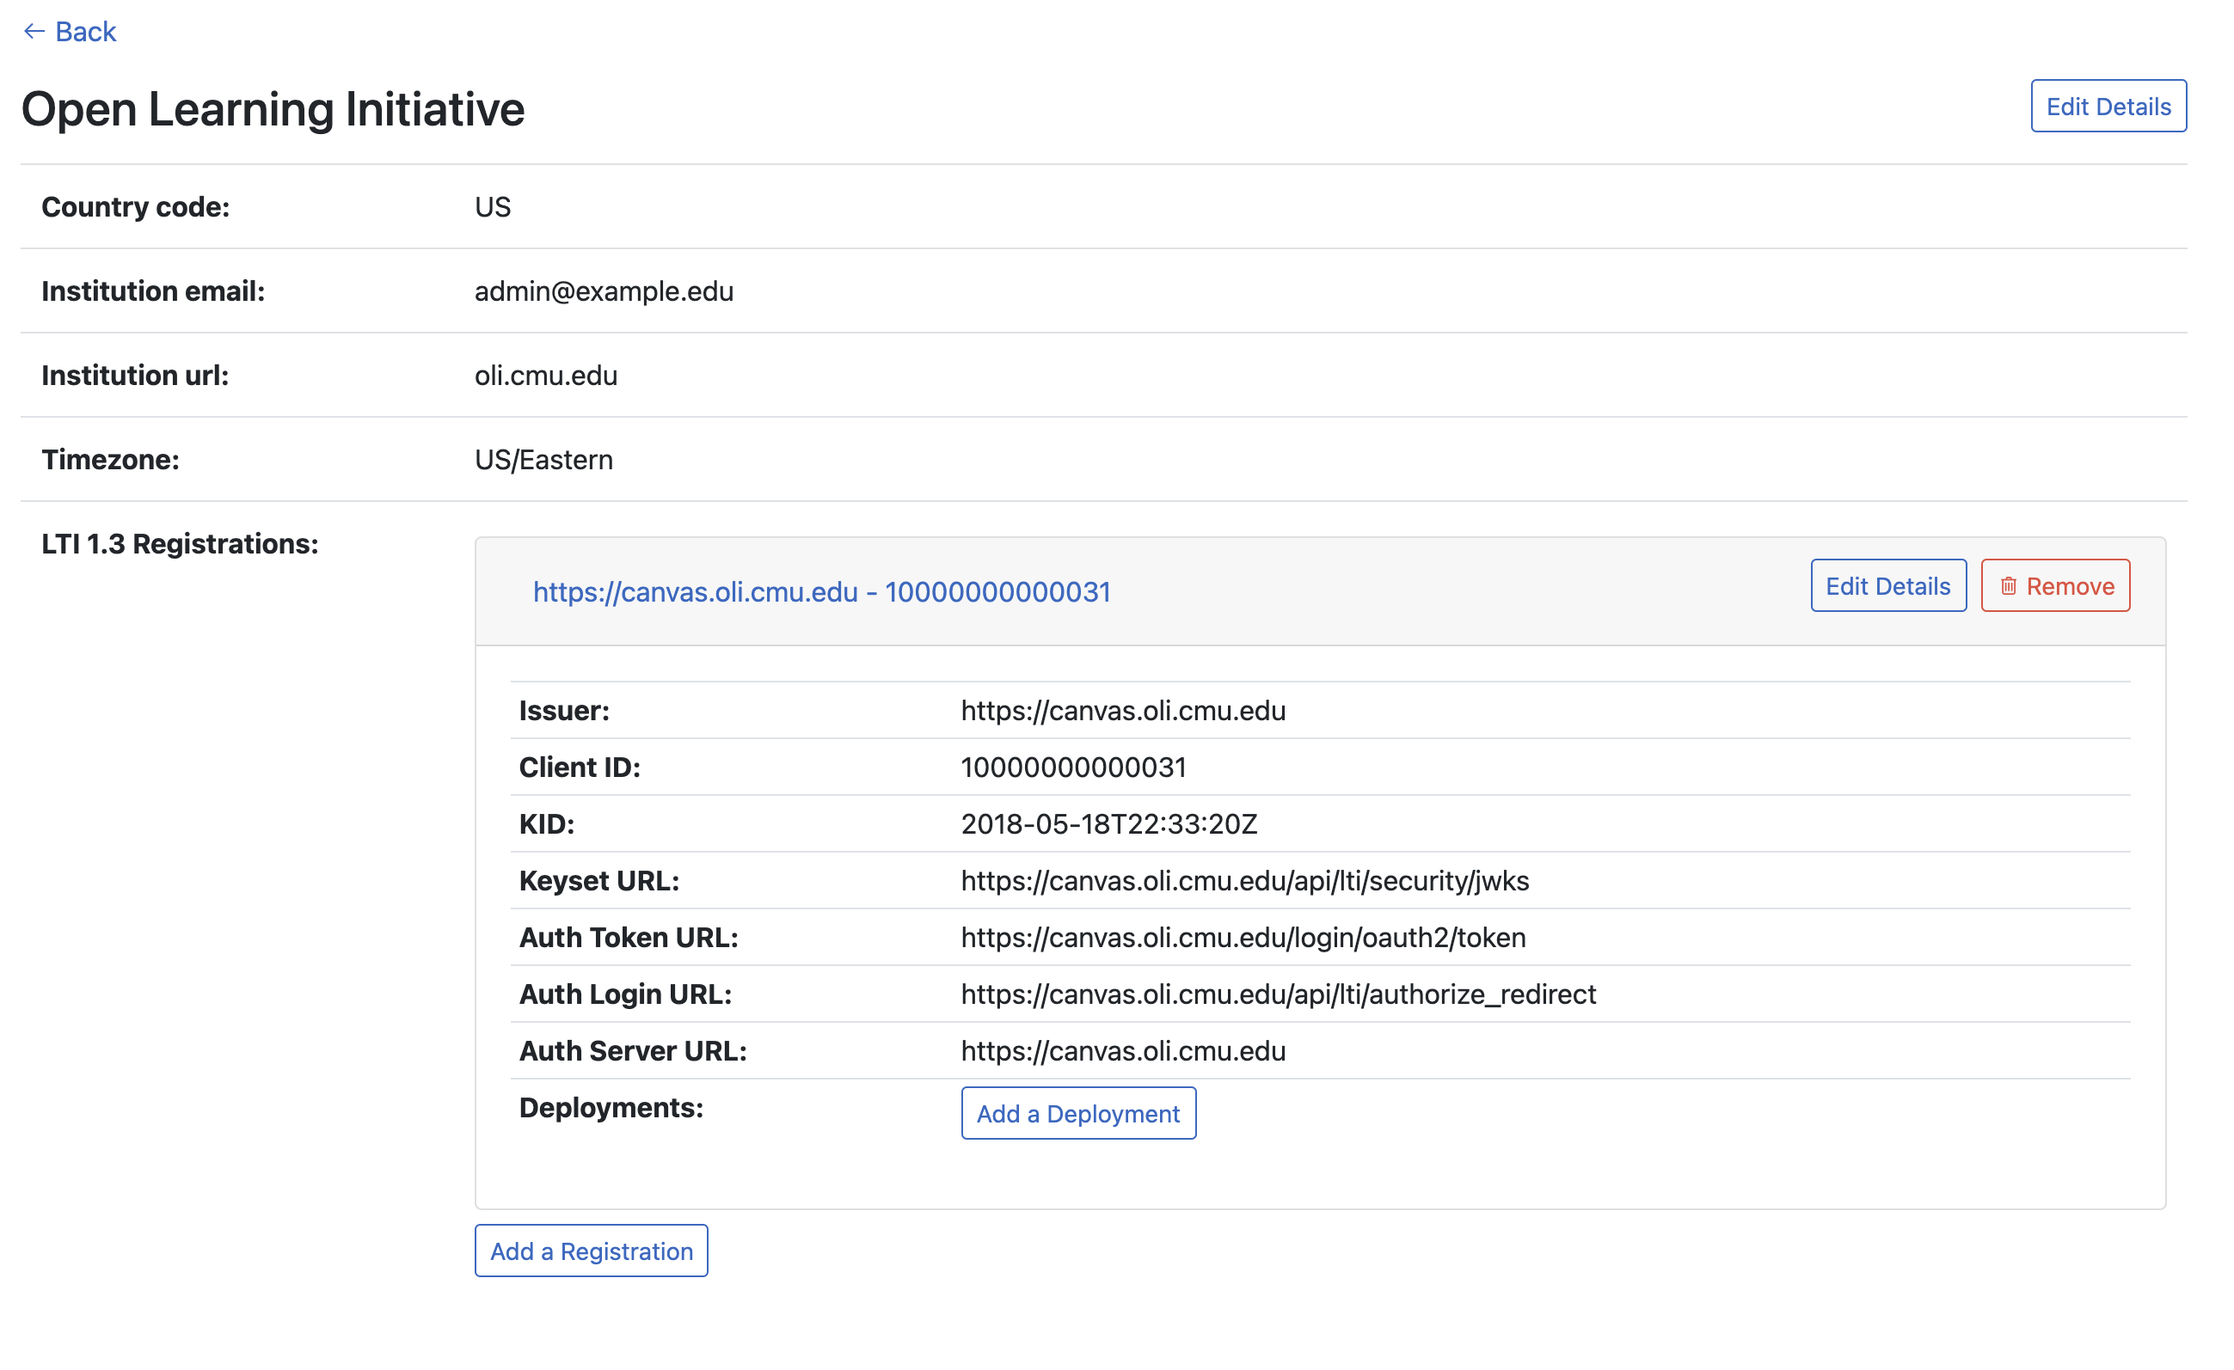
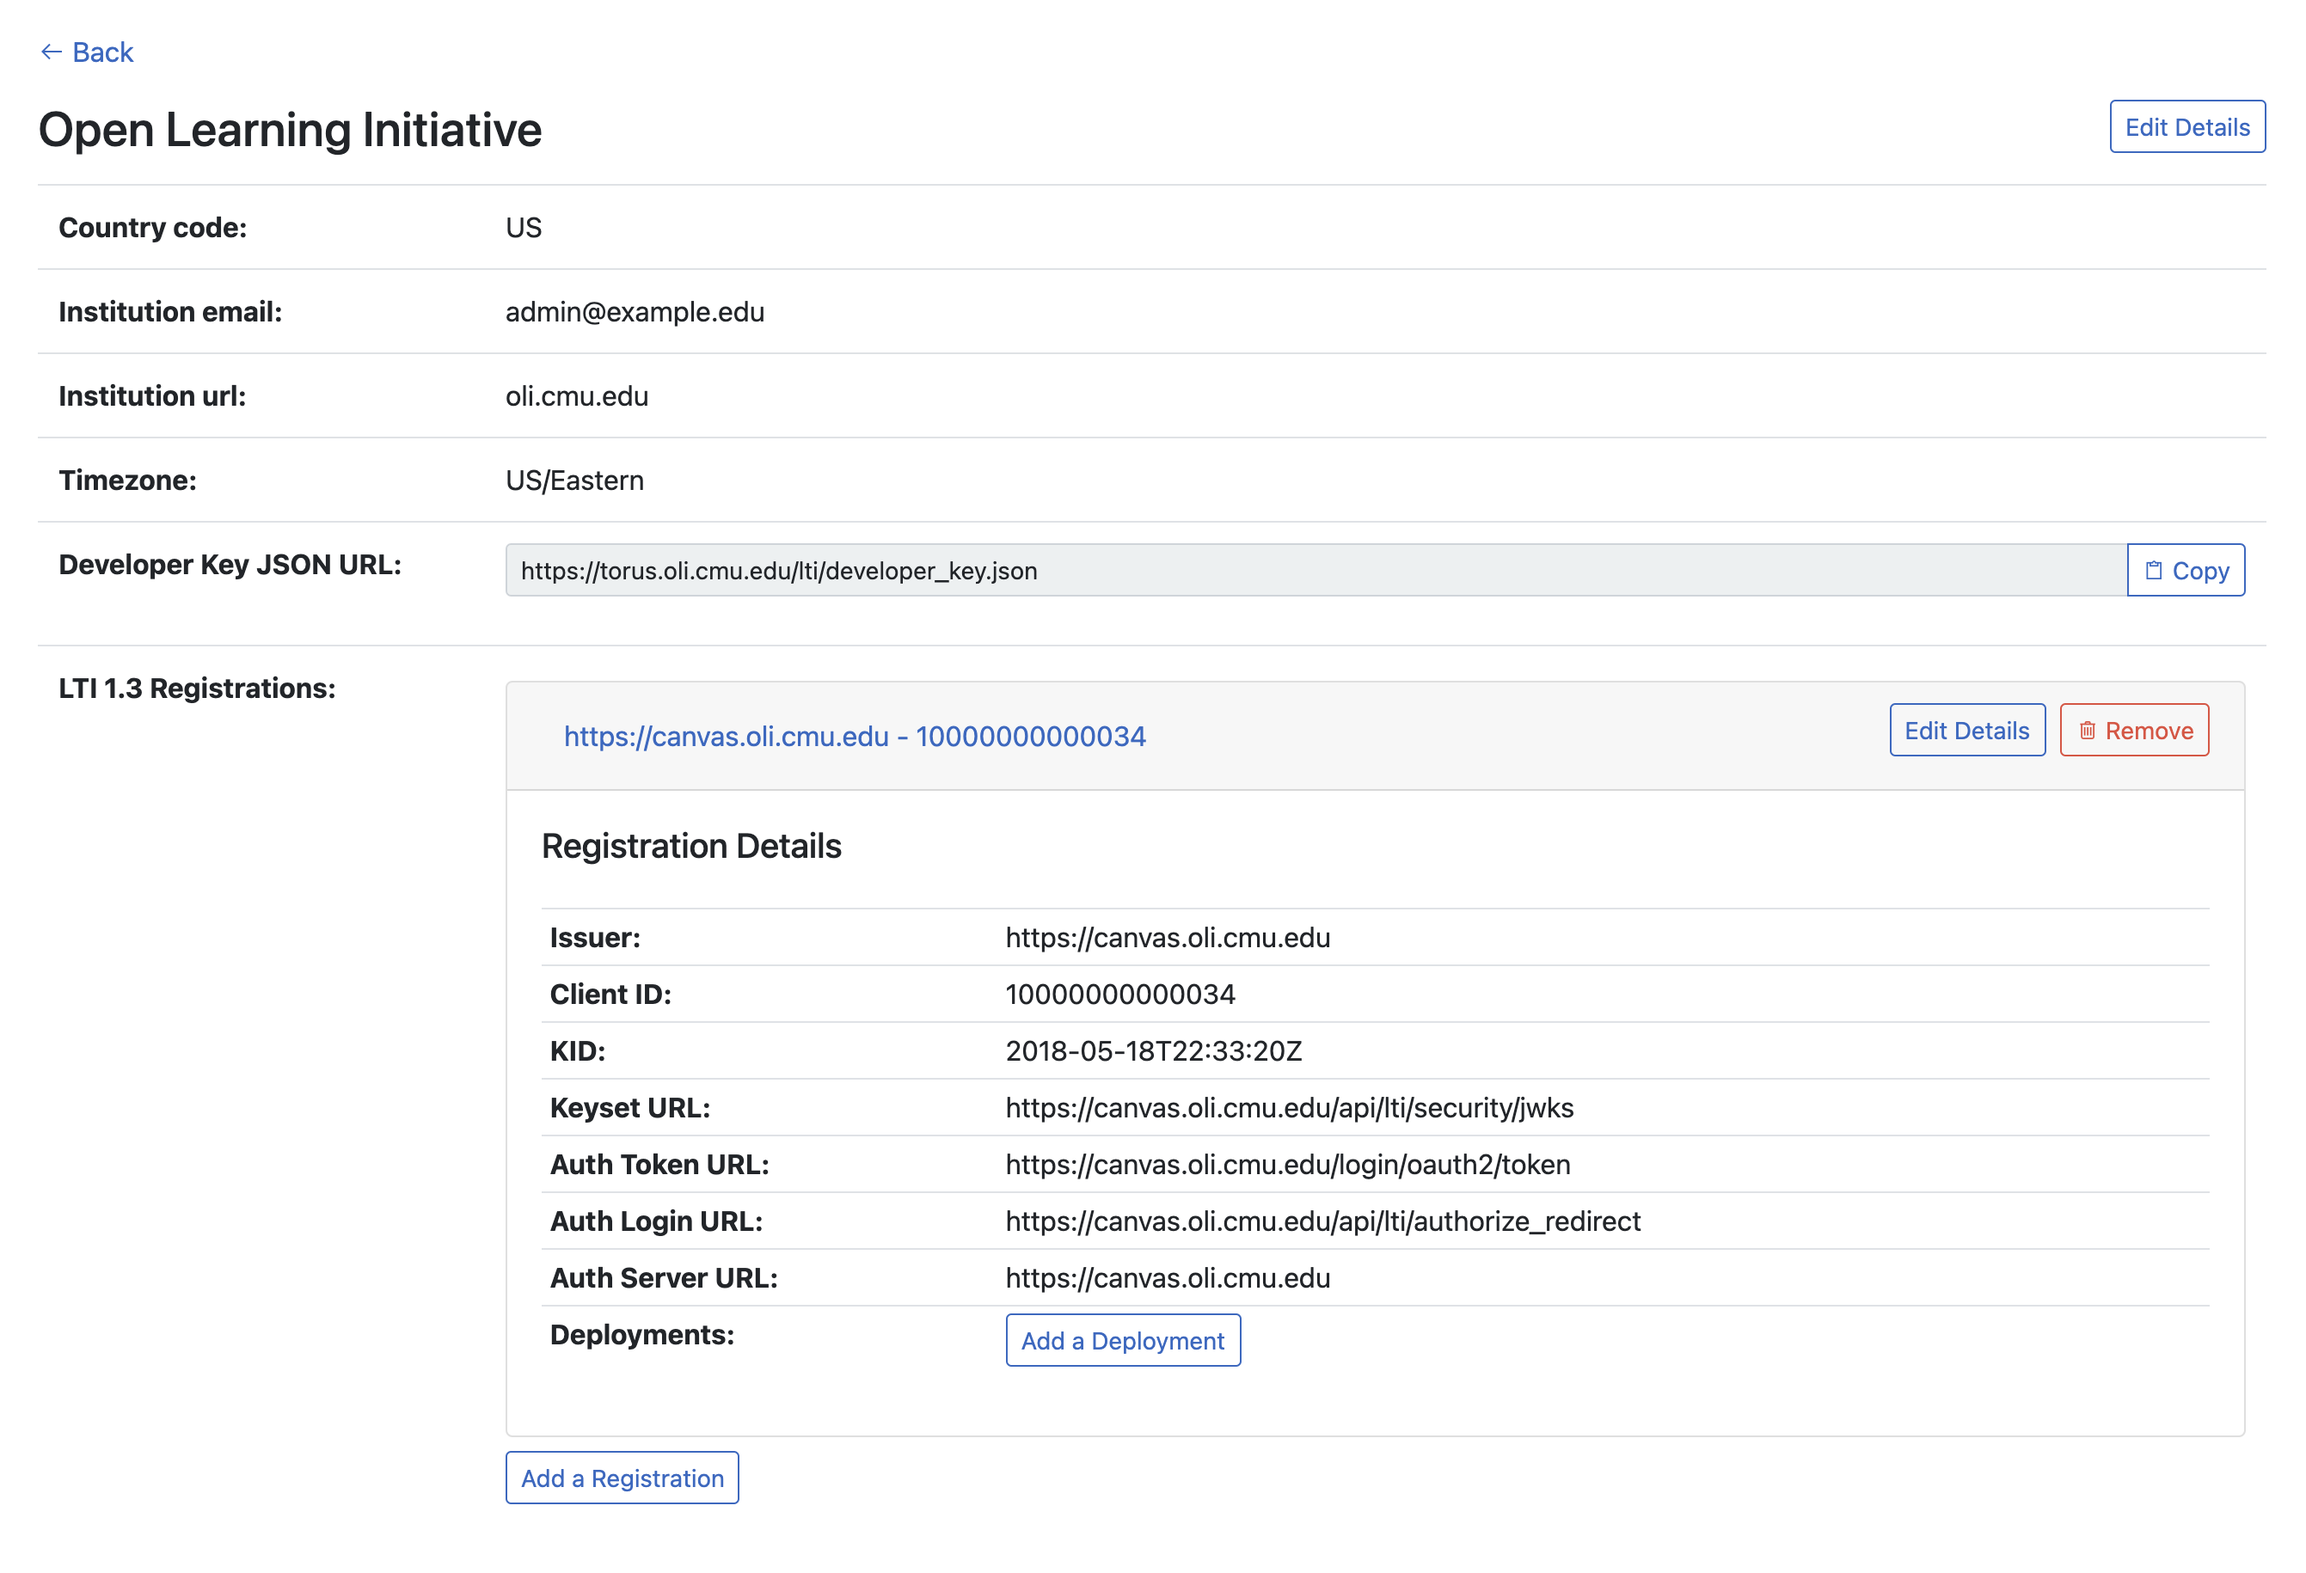
add developer_key json endpoint update docs update devmode instructions

diff --git a/docs/LTI1.3.md b/docs/LTI1.3.md
@@ -44,7 +44,7 @@ To configure an LTI 1.3 integration in Torus, we need to gather some important L
 
     <img src="./images/institution_details_link.png" width="150px" />
 
-1. Click "Add Registration" and enter registration details, which are outlined above and should be provided by your LMS administrator. You may use a placeholder value for Client ID if you haven't configured an LTI Key in your LMS yet, but it is very important you return and update this value before launching into Torus. When finished, click on the registration labeled by it's **Issuer - Client ID** to expand it.
+1. Click "Add Registration" and enter registration details, which are outlined above and should be provided by your LMS administrator. You may use a placeholder value for Client ID if you haven't configured an LTI Key in your LMS yet, but it is very important you return and update this value before launching into Torus. When finished, click on the registration labeled by it's **[Issuer - Client ID]** to expand it.
 
     ![img](./images/institution_example.png)
 
@@ -72,22 +72,39 @@ Canvas requires elevated privledges to configure LTI 1.3 Developer Keys and Apps
 
     <img src="./images/developer_keys.png" width="800px" />
 
-1. Configure the following fields with values that correspond to your torus deployment. For example, if you are running torus and tunneling locally using a service such as ngrok, you will want to replace all instances of `torus.oli.cmu.edu` with your ngrok address e.g. `ba7c432acd17.ngrok.io`. (\* Required Fields)
+1. You have two options when configuring an LTI 1.3 Developer Key in Canvas:
 
-    - **Key Name:** Torus
-    - **Owner Email:** admin@torus.oli.cmu.edu
-    - **\* Redirect URIs:** https://torus.oli.cmu.edu/lti/launch
-    - **\* Title:** Torus
-    - **\* Description:** Torus - Open Learning Initiative
-    - **\* Target Link URI:** https://torus.oli.cmu.edu/lti/launch
-    - **\* OpenID Connect Initiation Url:** https://torus.oli.cmu.edu/lti/login
-    - **\* JWK Method:** Public JWK URL
-    - **Public JWK URL:** https://torus.oli.cmu.edu/.well-known/jwks.json
-    - **Placements:** Configure depending on your needs, or leave defaults
+    - **OPTION 1 (Recommended)** - Automatic Configuration using JSON URL
 
-    ![img](./images/key_settings.png)
+        1. Select **Enter URL** for the method
 
-    Click "Save".
+        1. Configure the following fields with values that correspond to your torus deployment. For example, if you are hosting torus at a specific domain or in a development environemnt using a service such as ngrok, you will want to replace all instances of `torus.oli.cmu.edu` with your domain or ngrok address e.g. `ba7c432acd17.ngrok.io`.
+
+        - **Redirect URIs:** https://torus.oli.cmu.edu/lti/launch
+        - **Developer Key JSON URL:** https://torus.oli.cmu.edu/lti/developer_key.json
+
+        ![img](./images/developer_key_json_url.png)
+
+        Click "Save"
+
+    - **OPTION 2** - Manual Entry
+
+        1. Configure the following fields with values that correspond to your torus deployment. For example, if you are hosting torus at a specific domain or in a development environemnt using a service such as ngrok, you will want to replace all instances of `torus.oli.cmu.edu` with your domain or ngrok address e.g. `ba7c432acd17.ngrok.io`.
+
+        - **Key Name:** OLI Torus
+        - **Owner Email:** admin@torus.oli.cmu.edu
+        - **Redirect URIs:** https://torus.oli.cmu.edu/lti/launch
+        - **Title:** Torus
+        - **Description:** Create, deliver and iteratively improve course content with Torus, through the Open Learning Initiative
+        - **Target Link URI:** https://torus.oli.cmu.edu/lti/launch
+        - **OpenID Connect Initiation Url:** https://torus.oli.cmu.edu/lti/login
+        - **JWK Method:** Public JWK URL
+        - **Public JWK URL:** https://torus.oli.cmu.edu/.well-known/jwks.json
+        - **Placements:** Configure depending on your needs, or leave defaults
+
+        ![img](./images/key_settings.png)
+
+        Click "Save".
 
 1. Enable the newly created LTI Key by setting it to "ON". Your LTI 1.3 key is now configured and ready to use!
 
